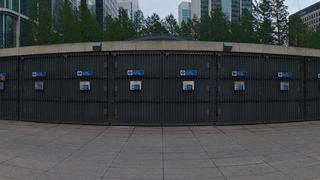
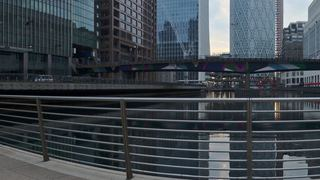
Step 93: each of our panoramas starts at its best side
Claude-Session: https://claude.ai/code/session_01WenuymM7FD3P5H5zZ8oBof

diff --git a/lib/xenaxio/meet-background.ts b/lib/xenaxio/meet-background.ts
@@ -43,7 +43,7 @@ export type BackgroundSource =
   | { type: "blur"; radius: number }
   | { type: "image"; url: string }
   | { type: "scene"; id: SceneId }
-  | { type: "panorama"; url: string; blob?: Blob }
+  | { type: "panorama"; url: string; blob?: Blob; yaw?: number }
   | { type: "animation"; url: string; mime: string; blob?: Blob };
 
 export const COMPANY_IMAGE = "company";
@@ -69,12 +69,16 @@ export const MEET_PICTURES = BACKGROUNDS.filter((b) => b.kind === "image").map((
 export const SCENES = ["clouds", "waves", "aurora", "colours"] as const;
 export type SceneId = (typeof SCENES)[number];
 
-/** Our panoramas: Poly Haven, CC0 (public/xenaxio/meet/panoramas/README.md), 3072 × 1536. */
+/**
+ * Our panoramas: Poly Haven, CC0 (public/xenaxio/meet/panoramas/README.md),
+ * 3072 × 1536. `yaw`: where the view starts (degrees from the middle of the
+ * picture), towards its best side; the thumbnail shows that view.
+ */
 export const PANORAMAS = [
-  { id: "pano-meadow", name: "meadow" },
-  { id: "pano-city", name: "city" },
-  { id: "pano-loft", name: "loft" },
-  { id: "pano-sunset", name: "sunset" },
+  { id: "pano-meadow", name: "meadow", yaw: 0 },
+  { id: "pano-city", name: "city", yaw: 160 },
+  { id: "pano-loft", name: "loft", yaw: 43 },
+  { id: "pano-sunset", name: "sunset", yaw: 36 },
 ].map((p) => ({ ...p, url: `/xenaxio/meet/panoramas/${p.id}.jpg`, thumb: `/xenaxio/meet/panoramas/${p.id}-thumb.jpg` }));
 
 /** Where MediaPipe's code (copied from node_modules at build time) and the model are served. */
@@ -162,7 +166,7 @@ export function backgroundSource(choice: BackgroundChoice, company: MeetBackgrou
       return (SCENES as readonly string[]).includes(choice.id) ? { type: "scene", id: choice.id } : null;
     case "panorama": {
       const p = PANORAMAS.find((x) => x.id === choice.id);
-      return p ? { type: "panorama", url: absolute(p.url) } : null;
+      return p ? { type: "panorama", url: absolute(p.url), yaw: p.yaw } : null;
     }
     case "image": {
       if (choice.id === COMPANY_IMAGE) return company ? fileSource(absolute(company.url), companyKind(company), company.contentType ?? "image/jpeg") : null;

diff --git a/lib/xenaxio/__tests__/meet-background.test.ts b/lib/xenaxio/__tests__/meet-background.test.ts
@@ -57,7 +57,7 @@ describe("meeting background choice", () => {
     // One's own file goes along as the Blob itself (CSP connect-src 'self' would block fetching a blob: URL).
     const blob = new Blob(["pano"], { type: "image/jpeg" });
     expect(backgroundSource({ kind: "image", id: OWN_IMAGE }, null, { url: "blob:pano", kind: "panorama", type: "image/jpeg", blob })).toEqual({ type: "panorama", url: "blob:pano", blob });
-    expect(backgroundSource({ kind: "panorama", id: PANORAMAS[0]!.id }, null, null)).toEqual({ type: "panorama", url: `${location.origin}/xenaxio/meet/panoramas/${PANORAMAS[0]!.id}.jpg` });
+    expect(backgroundSource({ kind: "panorama", id: PANORAMAS[0]!.id }, null, null)).toEqual({ type: "panorama", url: `${location.origin}/xenaxio/meet/panoramas/${PANORAMAS[0]!.id}.jpg`, yaw: PANORAMAS[0]!.yaw });
     expect(backgroundSource({ kind: "scene", id: "waves" }, null, null)).toEqual({ type: "scene", id: "waves" });
     expect(backgroundSource({ kind: "blur", strength: "light" }, company, ownPicture)).toEqual({ type: "blur", radius: 6 });
     expect(moves({ type: "scene", id: "waves" })).toBe(true);

diff --git a/lib/xenaxio/meet-panorama.ts b/lib/xenaxio/meet-panorama.ts
@@ -61,6 +61,9 @@ export class PanoramaView {
   private firstAlpha: number | null = null;
   gyroscope = false;
 
+  /** `base`: where the view starts, in degrees from the middle of the picture. */
+  constructor(private readonly base = 0) {}
+
   /** The person's centre in the picture, -0.5..0.5 from the middle (x right, y down). */
   setHead(x: number, y: number): void {
     if (this.gyroscope) return;
@@ -82,7 +85,7 @@ export class PanoramaView {
     const k = 1 - Math.exp(-seconds * (this.gyroscope ? 12 : 3));
     this.yaw += angleDelta(this.yaw, this.targetYaw) * k;
     this.pitch += (this.targetPitch - this.pitch) * k;
-    return { yaw: this.yaw, pitch: this.pitch };
+    return { yaw: this.yaw + this.base, pitch: this.pitch };
   }
 }
 

diff --git a/components/xenaxio/meet/background.tsx b/components/xenaxio/meet/background.tsx
@@ -163,7 +163,7 @@ export function useBackgroundEffect(track: LocalVideoTrack | undefined, source: 
           import("./motion-transformer"),
           import("@/lib/xenaxio/meet-motion"),
         ]);
-        const view = wanted.type === "panorama" ? new PanoramaView() : null;
+        const view = wanted.type === "panorama" ? new PanoramaView(wanted.yaw ?? 0) : null;
         const motion = moves(wanted) ? await frameSource(wanted, view ?? new PanoramaView()) : null;
         if (!current) {
           motion?.close();

diff --git a/lib/xenaxio/__tests__/meet-panorama.test.ts b/lib/xenaxio/__tests__/meet-panorama.test.ts
@@ -40,6 +40,8 @@ describe("panorama view", () => {
     view.setHead(-0.5, 0);
     for (let i = 0; i < 20; i++) now = view.step(0.1);
     expect(now.yaw).toBeCloseTo(-30);
+    // A panorama's view starts at its best side.
+    expect(new PanoramaView(160).step(0.1).yaw).toBeCloseTo(160);
   });
 
   it("finds the person's centre in the mask (0 = person)", () => {

diff --git a/public/xenaxio/meet/panoramas/README.md b/public/xenaxio/meet/panoramas/README.md
@@ -3,7 +3,8 @@
 Equirectangular pictures (360° × 180°), from [Poly Haven](https://polyhaven.com),
 licence **CC0** (public domain, <https://polyhaven.com/license>). Taken from each
 panorama's tonemapped JPG (8192 × 4096) and made 3072 × 1536 (JPEG, quality 80);
-the thumbnails are a 70° window around the middle, 320 × 180.
+the thumbnails are the 70° window where the view starts (`yaw` in
+`lib/xenaxio/meet-background.ts`), 320 × 180.
 
 | File | Poly Haven panorama |
 |---|---|
